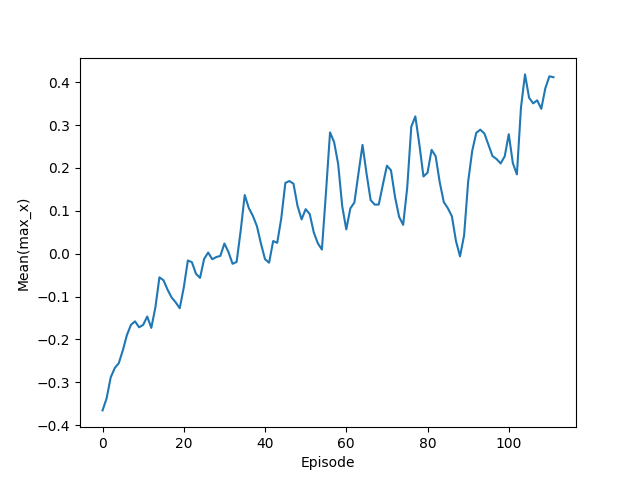
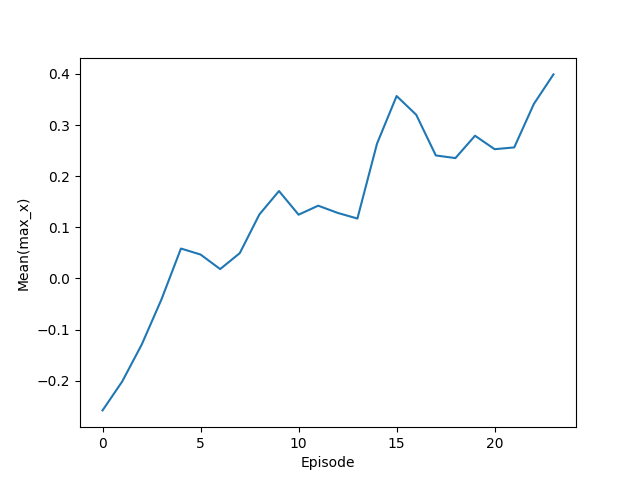
mountain car solved 4

diff --git a/Mountain Car/mountainCar.qLearning.py b/Mountain Car/mountainCar.qLearning.py
@@ -6,15 +6,17 @@ import tqdm
 import matplotlib.pyplot as plt
 
 # Hyperparameters
-learning_rate = 0.01
+learning_rate = 0.1
 discount_rate = 0.99
 min_episodes_criterion = 100
-max_episodes = 10000
+max_episodes = 5000
 epsillon = 1
 epsillon_decay = 1 / max_episodes
 # `MountainCar-v0` is considered solved if average reward bigger then -200
-reward_threshold = -175
+reward_threshold = -170
 discretize_array = [0.1, 0.01]
+log_stats_step = 50
+demos = 7
 
 # Positive multiplier is selected to encourage higher x
 optimazeReward = True
@@ -120,16 +122,17 @@ for episode in max_episodes_tqdm:
         state = next_state
 
         # Allow for terminal states
-        if done:
+        if done or next_state[0] >= 0.6:
             qLearning.updateDone(state, action, 0)
+            done = True
 
-        if done or truncated or next_state[0] >= 0.6:
+        elif truncated:
             done = True
 
     episodes_reward.append(episode_reward)
     episodes_max_x.append(episode_max_x)
 
-    if episode % 50 == 0 and episode > 0:
+    if episode % log_stats_step == 0 and episode > 0:
         # Add statistics
         mean_reward = statistics.mean(episodes_reward)
         mean_max_x = statistics.mean(episodes_max_x)
@@ -146,7 +149,8 @@ if (mean_reward > reward_threshold):
     print(
         f'\nSolved at episode {episode}: average reward: {mean_reward:.2f}!')
 
-    steps = range(0, len(episodes_max_x_stats), 1)
+    steps = np.array(range(0, len(episodes_max_x_stats), 1))
+    steps *= log_stats_step
     plt.plot(steps, episodes_max_x_stats)
     plt.ylabel('Mean(max_x)')
     plt.xlabel('Episode')
@@ -157,18 +161,20 @@ else:
     print(f'\nNot solved las reward: {mean_reward:.2f}!')
 
 env.close()
-# 5900/25000 [01:54<06:10, 51.51it/s, avrange_running_reward=-172, episodes_max_x=0.41]
-# Solved at episode 5900: average reward: -172.17!
+#  1100/10000 [00:19<02:39, 55.67it/s, mean_max_x=0.428, mean_reward=-158]
+# Solved at episode 1100: average reward: -158.41!
 
-# Show
+# Demo
 render_mode = "human"
 env = gym.make(env_name, render_mode=render_mode)
-for i in range(10):
+for i in range(demos):
     state, info = env.reset()
     done = False
 
     while done != True:
         action = qLearning(state)
         state, reward, truncated, done, info = env.step(action)
+        if done or truncated or state[0] >= 0.6:
+            done = True
 
 env.close()
